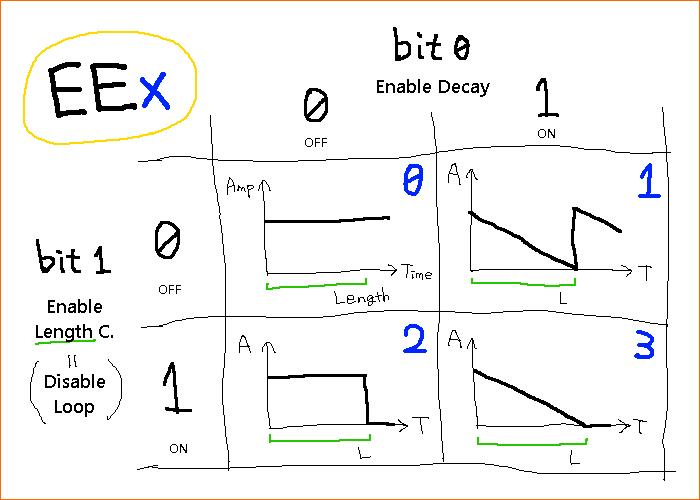
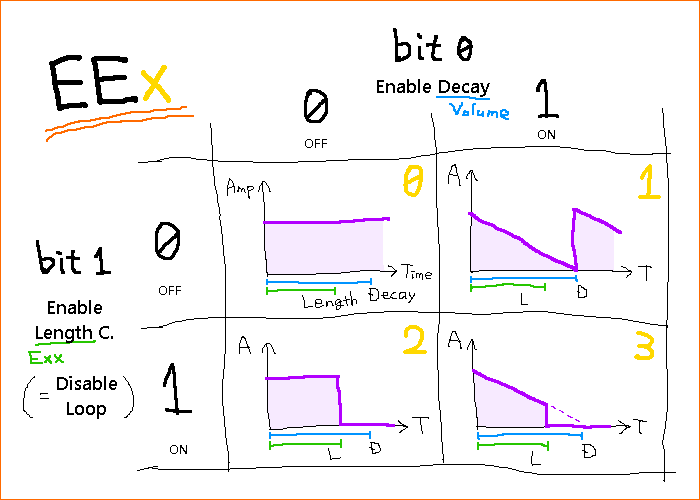
Things about length counter in `エフェクトとアルペジオ（日訳）.md`
* correct its explanation
* 「長さカウンタ」→「音長カウンタ」

diff --git a/エフェクトとアルペジオ（日訳）.md b/エフェクトとアルペジオ（日訳）.md
@@ -9,8 +9,8 @@
 # 目次
 
 - [1. ハードウェア音量エンベロープに関するエフェクト（2A03 & MMC5）](#1-ハードウェア音量エンベロープに関するエフェクト2a03--mmc5)
-  - 1-1. `EE`x（x≦3）：ハードウェアエンベロープと長さカウンタを有効化
-  - 1-2. `E`xx（xx≦0x1F）：長さカウンタを指定
+  - 1-1. `EE`x（x≦3）：ハードウェアエンベロープと音長カウンタを有効化
+  - 1-2. `E`xx（xx≦0x1F）：音長カウンタを指定
   - 1-3. `S`xx（xx≧0x80、オフセット0x80）：三角波のリニアカウンタをリセット
   - 1-4. 備考
 
@@ -47,21 +47,22 @@
 
 # 1. ハードウェア音量エンベロープに関するエフェクト（2A03 & MMC5）
 
-2A03とMMC5の機能にアクセスするために、以下のエフェクトを追加した。
+2A03とMMC5の機能にアクセスするために、以下のエフェクトを追加した。  
+（訳註：ノートの長さに関して「音長カウンタ」と「リニアカウンタ」というのがあるっぽい。後者は三角波専用か）
 
 
 ## 1-1. `EE`x（x≦3）
 
 ### 1-1A. 0bit目
 - 矩形波やノイズのチャンネルの**ハードウェアエンベロープを有効化**する。  
-  チャンネルの音量を、単純な振幅値ではなくディケイ（減衰）率で指定できるようになる。
-- 下記の「長さカウンタ」が無効化されている場合、出力振幅値は減衰しきった後にまた最大値に戻ってループする。  
+  チャンネルの音量カラムの値が、音量の指定ではなくディケイ（減衰）率の指定効果になる。小さな値ほど減衰が早い。
+- 下記の音長カウンタが無効化されている場合、出力振幅値は減衰しきった後にまた最大値に戻ってループする。  
   有効化されている場合は、減衰しきった後は0のままとなる。
-- 三角波チャンネルではリニアカウンタも同時に操作される（便利なので）。
+- 三角波チャンネルではリニアカウンタも同時に有効化される。
 
 ### 1-1B. 1bit目
-- 矩形波やノイズのチャンネルの**長さカウンタを有効化**する。
-- 三角波チャンネルでは、このコマンドや長さカウンタの指定クロック経過のうち、どちらか早い方によって音が切れる。
+- 矩形波やノイズのチャンネルの**音長カウンタを有効化**する。
+- 三角波チャンネルでは、音長カウンタとリニアカウンタの指定クロック経過のうち、どちらか早い方によって音が切れる。
 
 ### 1-1C. めんど…。
 - 表にしてみた。
@@ -70,29 +71,29 @@
 
 
 ## 1-2. `E`xx（xx≦`0x1F`）
-- 値に応じて、以下の一覧のように**長さカウンタを設定**する。値が小さいほど減衰が早い。  
-  長さカウンタ自体が無効化されていた場合は強制的に有効化する。
+- 値に応じて、以下の一覧のように**音長カウンタを設定**する。  
+  音長カウンタ自体が無効化されていた場合は強制的に有効化する。
 - 矩形波、三角波、ノイズのチャンネルで動作する。
-- 初期化時の値は`0x01`（長さ254）。
+- 初期化時の値は`0x01`（音長254）。
 
 |     |  0 |  1 |  2 |  3 |  4 |  5 |  6 |  7 |  8 |  9 |  A |  B |  C |  D |  E |  F |
 |-----|----|----|----|----|----|----|----|----|----|----|----|----|----|----|----|----|
 | +00 | 10 |254 | 20 |  2 | 40 |  4 | 80 |  6 |160 |  8 | 60 | 10 | 14 | 12 | 26 | 14 |
 | +10 | 12 | 16 | 24 | 18 | 48 | 20 | 96 | 22 |192 | 24 | 72 | 26 | 16 | 28 | 32 | 30 |
 
-- 三角波チャンネルではリニアカウンタも初期化する。  
-  短い方が勝つ（※訳注：よくわからない）。
+- 三角波チャンネルではリニアカウンタの初期化も行う。  
+  音長カウンタとリニアカウンタのどちらか早い方によって音が切れる。
 
 
 ## 1-3. `S`xx（xx≧`0x80`、オフセット`0x80`）
 - 三角波チャンネルにおいて、`0x80`を引いた値として**リニアカウンタをリセット**する。  
-  XXが`0x80`未満の場合、リニアカウンタと長さカウンタを無効化し、本来のノート切り捨てエフェクトとして機能する。
+  XXが`0x80`未満の場合、リニアカウンタと音長カウンタを無効化し、本来のノート切り捨てエフェクトとして機能する。
 - 本来の`S80`～`SFF`は、残念ながら全てのチャンネルで無効となる（NSF出力の都合上）。
 
 
 ## 1-4. 備考
 - 今のところ、ハードウェアエンベロープとリニアカウンタは240Hzで動作する。  
-  長さカウンタは、2A03チャンネルでは120Hz、MMC5チャンネルでは240Hzで動作する。  
+  音長カウンタは、2A03チャンネルでは120Hz、MMC5チャンネルでは240Hzで動作する。  
   いずれもモジュールのエンジンスピードとは独立している。  
 - ハードウェアエンベロープが有効でも、チャンネルごとの音量ミキサーや音色のシーケンスは普通に機能するのでご安心を。
 
